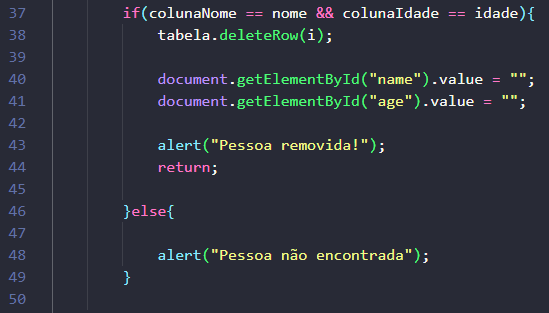
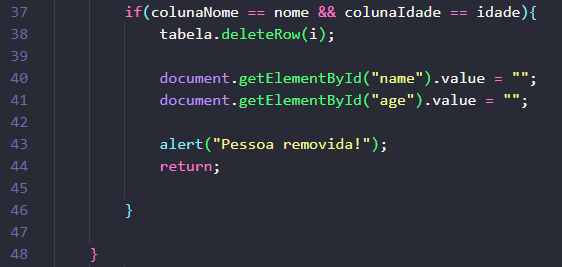
coreção do exercicio 4

diff --git a/projeto4.html b/projeto4.html
@@ -120,7 +120,8 @@
       </pre>
       <p class="explicacao">👉 A condição <strong><code>if</code></strong> verifica se o nome e a idade digitados no input são idênticos aos valores das variáveis que receberam o que estava na <code>td</code> da primeira linha, que armazena o nome e na outra <code>td</code> desta mesma linha, que armazena a idade.</p>
       <p class="explicacao">👉 Se a condição <code>if</code> for verdadeira, o método <code>tabela.deleteRow(i)</code> é chamado. Ele usa o índice <code>i</code> para remover a linha da tabela permanentemente. O <code>return</code> encerra a função imediatamente após a remoção.</p>
-      <p class="explicacao">👉 O <code>else</code> serve quando o nome e a idade digitados não são iguais ao armazendo na tabela, isso quer dizer que não podemos deletar, pois não achamos ninguém.</p>
+      <p class="explicacao">👉 O <code>return</code> é usado quando o nome e a idade digitados não correspondem aos armazenados na tabela. Isso significa que não podemos deletar, pois não encontramos ninguém. Ao mesmo tempo, precisamos sair do laço <code>for</code> para indicar que não houve correspondência, caso contrário, a mensagem de "não encontrado" apareceria para cada linha pesquisada.</p>
+
      </div>
 
      <div class="bloco">
@@ -131,6 +132,7 @@
         </div>
       </pre>
       <p class="explicacao">👉 No final, os campos de input são <strong>limpos</strong>, reatribuindo uma string vazia (<code>" "</code>) ao seu valor .value.</p>
+      <p class="explicacao">👉 A mensagem no alert pode finalmente ser mostrada.</p>
      </div>
 
      <div class="bloco">
